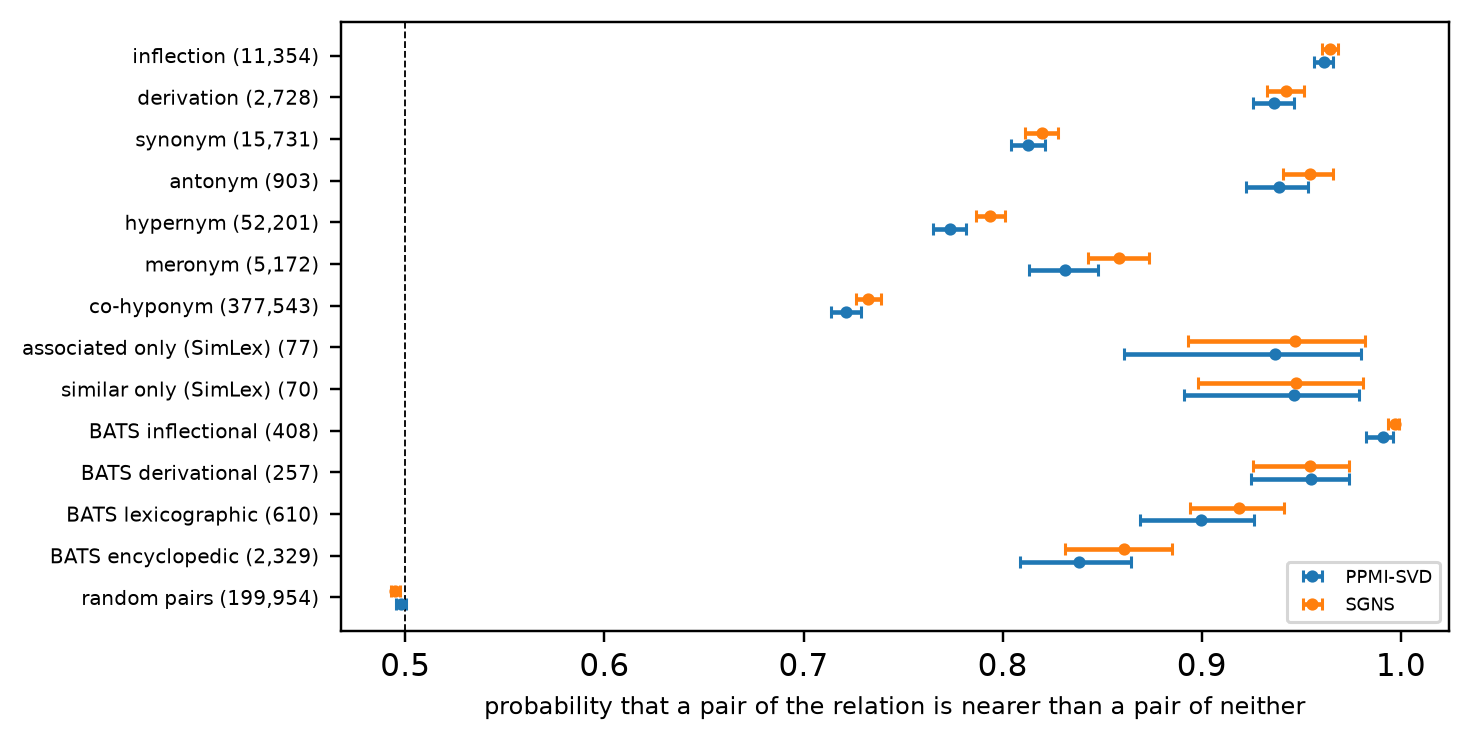
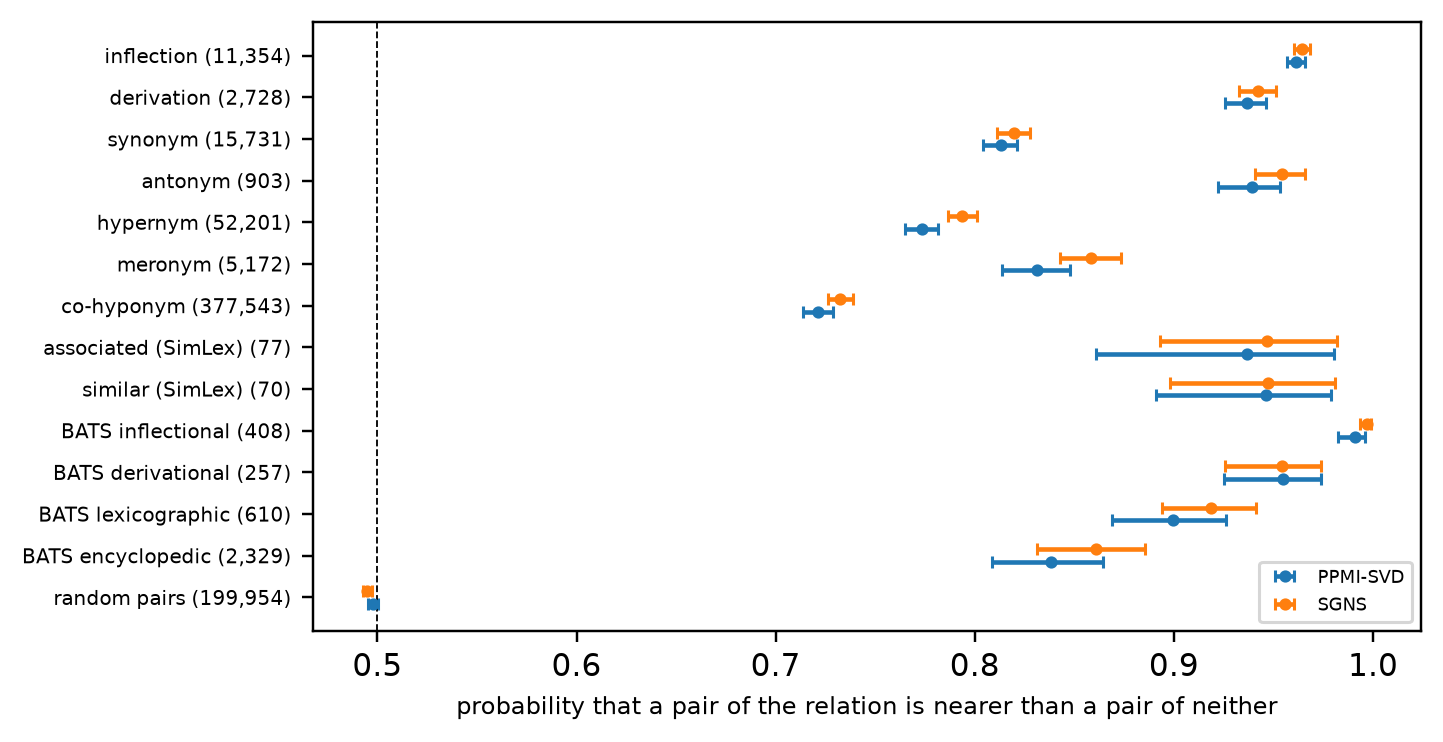
Refactor relation collapse scripts and update documentation
- Renamed functions and variables in `relation_collapse.py` for clarity, including changing "associated only" to "associated" and "similar only" to "similar" in line with updated terminology.
- Improved the `fmt` function to enhance readability and maintainability.
- Added a new `cells` function to create boolean masks for SimLex-999 judges.
- Updated figure generation in `relation_collapse_figures.py` to reflect new naming conventions and improved error handling.
- Modified JSON results in `relation_collapse.json` to align with updated terminology for SimLex-999 pairs.
- Updated binary figure files for relation collapse analysis.

diff --git a/code/meaning_as_likeness/relation_collapse.py b/code/meaning_as_likeness/relation_collapse.py
@@ -1,7 +1,7 @@
-"""Question Q2 of the chapter "Meaning as Likeness" (section "Similar, Related or Associated?"), second part: which relations does the
-nearness of a space not collapse? A loss trained on company rewards any relation that leaves a trace in company, so nearness is expected to
+"""Question Q2 of the chapter "Meaning as Likeness" (section "Which Relations Does Nearness Tell Apart?"): which relations does the
+nearness of a space tell apart? A loss trained on company rewards any relation that leaves a trace in company, so nearness is expected to
 mix many relations; nearness is one number per pair, so the most it can do is put relations in an order, and two relations are
-"collapsed" when the interval of the order between them holds no order. relation_split.py is the first part (the four cells of SimLex).
+"collapsed" when the interval of the order between them holds no order.
 
 Spaces: PPMI-SVD and SGNS of the gallery (text8, 30,000 words, d = 100, seed 0) for tests 1, 2, 3 and 5; the same two losses trained
 on the second half of text8 for test 4, whose judge is counted on the first half (so that the judge is not the space itself).
@@ -9,7 +9,7 @@ Relations, each a set of unordered pairs of words of the vocabulary:
   WordNet 3.0: inflection (a shared base form, by morphy's rules and exception lists), derivation ("+"), synonym (a shared synset),
     antonym ("!"), hypernym (one IS-A step), meronym (part, member or substance), co-hyponym (the same direct hypernym); a pair takes
     the first that holds in this order, and the pairs that hold only one of them are a robustness check;
-  SimLex-999 with USF: associated only and similar only, the single cells of relation_split.py (top and bottom thirds);
+  SimLex-999 with USF: associated (not similar) and similar (not associated), the pairs in the top third of one judge and the bottom third of the other;
   BATS 3.0: its four families (inflectional, derivational, lexicographic, encyclopedic), each the union of its ten relations;
   text8, first half: direct co-occurrence (PPMI > 0 within the window of 5) and shared context only (no co-occurrence, and a cosine of
     the two PPMI rows in the top 1% of the random pairs without co-occurrence), among RANDOM_PAIRS seeded random pairs;
@@ -48,13 +48,12 @@ from scipy.stats import norm, spearmanr
 
 import gallery
 import relation_collapse_figures as figures
-import relation_split
 import utils
 
 SPACES = {"PPMI-SVD": "ppmi_svd_s0", "SGNS": "sgns_s0"}
 HALF_SPACES = {"PPMI-SVD": "ppmi_svd_B", "SGNS": "sgns_B"}  # trained on the second half of text8, as train_spaces.py does
 WORDNET = ["inflection", "derivation", "synonym", "antonym", "hypernym", "meronym", "co-hyponym"]  # also the precedence
-SIMLEX = ["associated only (SimLex)", "similar only (SimLex)"]
+SIMLEX = ["associated (SimLex)", "similar (SimLex)"]  # the cells "associated only" and "similar only" of cells(), named by what they hold
 BATS = ["BATS inflectional", "BATS derivational", "BATS lexicographic", "BATS encyclopedic"]
 RELATIONS = WORDNET + SIMLEX + BATS
 RANDOM, NEITHER, UNCOVERED, ANY_BATS = "random pairs", "neither (in WordNet)", "not in WordNet", "BATS only"
@@ -64,8 +63,22 @@ BINS, K, WINDOW = gallery.BINS, 5, 5
 RESAMPLES, FIT_RESAMPLES, RANDOM_PAIRS, PER_RELATION, TOP_SHARE = 1000, 200, 200_000, 20_000, 0.01
 
 
-def fmt(estimate, sign: str = "") -> str:
-    return relation_split.fmt(estimate, sign)
+def fmt(estimate: tuple[float, float, float], sign: str = "") -> str:
+    """A number with its bootstrap interval, as it is printed everywhere."""
+    return f"{estimate[0]:{sign}.3f} [{estimate[1]:{sign}.3f}, {estimate[2]:{sign}.3f}]"
+
+
+def cells(similarity: np.ndarray, association: np.ndarray, share: float) -> dict[str, np.ndarray]:
+    """Boolean mask of each of the four cells of the two SimLex-999 judges: top `share` against bottom `share` of each (a cut at zero
+    would leave "similar, not associated" almost empty, since the pairs were drawn from USF)."""
+    hi_s, lo_s = similarity >= np.quantile(similarity, 1 - share), similarity <= np.quantile(similarity, share)
+    hi_a, lo_a = association >= np.quantile(association, 1 - share), association <= np.quantile(association, share)
+    return {"both": hi_s & hi_a, "similar only": hi_s & lo_a, "associated only": lo_s & hi_a, "neither": lo_s & lo_a}
+
+
+def frequency_features(log_counts: np.ndarray) -> np.ndarray:
+    """Design matrix of a pair from the log counts of its two words (n x 2): intercept, lower and higher log count (order-free)."""
+    return np.column_stack([np.ones(len(log_counts)), log_counts.min(axis=1), log_counts.max(axis=1)])
 
 
 # --- the judges
@@ -87,7 +100,7 @@ def judged_pairs(vocab: list[str], index: dict[str, int]) -> tuple[dict, dict, n
     pairs = utils.first_label(wordnet, WORDNET, len(vocab))
     simlex = [p for p in utils.load_simlex() if p[0] in index and p[1] in index]
     similarity, association = (np.array([p[c] for p in simlex]) for c in (2, 3))
-    masks = relation_split.cells(similarity, association, 1 / 3)
+    masks = cells(similarity, association, 1 / 3)
     for name, cell in zip(SIMLEX, ("associated only", "similar only")):
         pairs[name] = in_vocab([p[:2] for p, m in zip(simlex, masks[cell]) if m], index)
     bats = utils.load_bats()
@@ -173,7 +186,7 @@ def resolved(matrix: dict, low: str = "low", high: str = "high") -> np.ndarray:
 
 
 def agreement(result: dict) -> dict:
-    """Test 5, second part: of the contrasts of test 2, how many each space resolves, and how many both resolve the same way."""
+    """Test 5: of the contrasts of test 2, how many each space resolves, and how many both resolve the same way."""
     upper = np.triu_indices(len(RELATIONS), 1)
     signs = {s: resolved(r["matrix"])[upper] for s, r in result["spaces"].items()}
     a, b = signs.values()
@@ -288,7 +301,7 @@ def mechanism_sample(pairs: dict, seed: int = 0) -> tuple[np.ndarray, np.ndarray
 def designs(log_counts: np.ndarray, features: np.ndarray, labels: np.ndarray) -> dict[str, np.ndarray]:
     """The design matrices of test 4: frequency (intercept, lower and higher log count), frequency and first-half context (PPMI and
     overlap of the rows), and each of them with one indicator per relation (random pairs are the reference)."""
-    frequency = relation_split.frequency_features(log_counts)
+    frequency = frequency_features(log_counts)
     context = np.column_stack([frequency, features])
     onehot = (labels[:, None] == np.arange(len(RELATIONS))[None, :]).astype(float)
     return {"frequency": frequency, "context": context, "frequency + relations": np.column_stack([frequency, onehot]),

diff --git a/code/meaning_as_likeness/relation_collapse_figures.py b/code/meaning_as_likeness/relation_collapse_figures.py
@@ -1,4 +1,4 @@
-"""The figures of the second part of the section "Similar, Related or Associated?" (see relation_collapse.py, which computes what they
+"""The figures of the section "Which Relations Does Nearness Tell Apart?" (see relation_collapse.py, which computes what they
 show), drawn at the width of the text block of the book (6.5 inches). Nothing is computed here."""
 from __future__ import annotations
 
@@ -8,9 +8,18 @@ matplotlib.use("Agg")
 import matplotlib.pyplot as plt
 import numpy as np
 
-import relation_split_figures
+import utils
 
-save, errors = relation_split_figures.save, relation_split_figures.errors
+
+def save(fig, name: str) -> None:
+    utils.FIGURES.mkdir(parents=True, exist_ok=True)
+    fig.savefig(utils.FIGURES / f"{name}.png", dpi=220, bbox_inches="tight")
+    plt.close(fig)
+
+
+def errors(estimates: list) -> np.ndarray:
+    """Error bars (2 x n) from (point, low, high) triples."""
+    return np.array([[e[0] - e[1], e[2] - e[0]] for e in estimates]).T
 
 
 def against_neither(results: dict) -> None:
